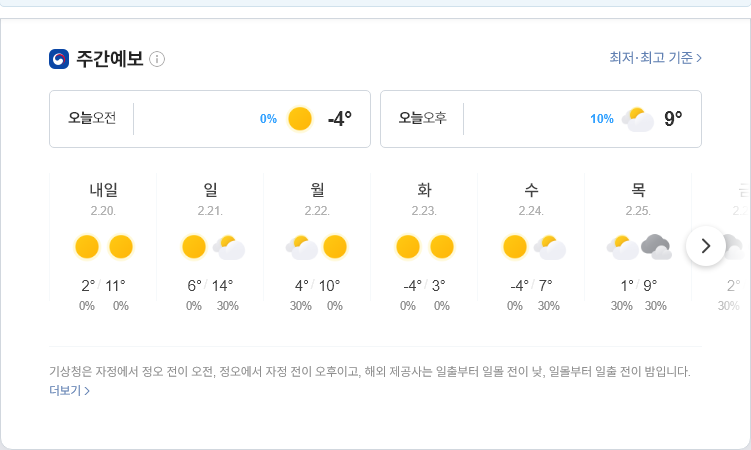
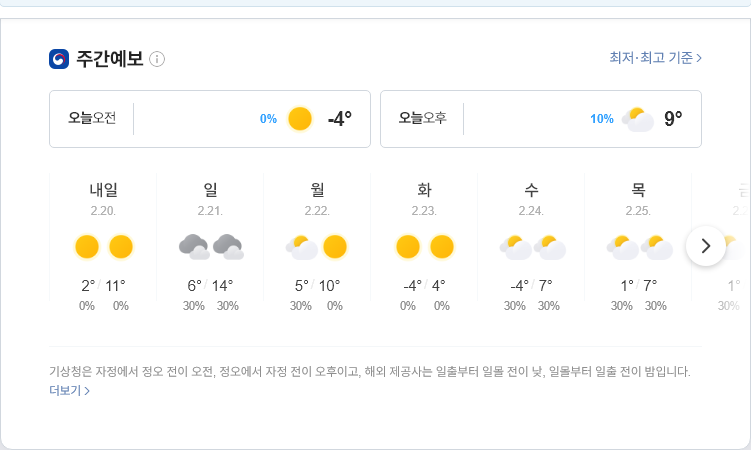
update result

diff --git a/README.md b/README.md
@@ -1,5 +1,5 @@
-##  2021-02-19 05:54:49   금요일 
-##### 날씨   -   어제보다 1° 높아요맑음  
+##  2021-02-19 09:17:08   금요일 
+##### 날씨   -   어제보다 3° 높아요맑음  
 <center><img src="../img/naver_weather_week.png"></center>
 ----
 ----
@@ -13,9 +13,9 @@
 ##### 세계
 <table border="1" bordercolor="blue" align = "center" >
 <tr align = "right" > <td>Item</td><td>Point</td><td>Diff</td><td>Rate</td><td>Buy</td><td>Sell</td><td>...</td>  </tr>
-<tr align = "right" > <td>DOW</td><td>31,541.89</td><td>-71.13</td><td><font size="3" color="blue" >-0.23%</font></td><td><font size="3" color="black">0</font></td><td><font size="3" color="black">0</font></td><td>0</td>  </tr>
-<tr align = "right" > <td>NASDAQ</td><td>13,898.99</td><td>-66.51</td><td><font size="3" color="blue" >-0.48%</font></td><td><font size="3" color="black">0</font></td><td><font size="3" color="black">0</font></td><td>0</td>  </tr>
-<tr align = "right" > <td>S&P</td><td>3,919.9</td><td>-11.43</td><td><font size="3" color="blue" >-0.29%</font></td><td><font size="3" color="black">0</font></td><td><font size="3" color="black">0</font></td><td>0</td>  </tr>
+<tr align = "right" > <td>DOW</td><td>31,493.34</td><td>-119.68</td><td><font size="3" color="blue" >-0.38%</font></td><td><font size="3" color="black">0</font></td><td><font size="3" color="black">0</font></td><td>0</td>  </tr>
+<tr align = "right" > <td>NASDAQ</td><td>13,865.36</td><td>-100.14</td><td><font size="3" color="blue" >-0.72%</font></td><td><font size="3" color="black">0</font></td><td><font size="3" color="black">0</font></td><td>0</td>  </tr>
+<tr align = "right" > <td>S&P</td><td>3,913.97</td><td>-17.36</td><td><font size="3" color="blue" >-0.44%</font></td><td><font size="3" color="black">0</font></td><td><font size="3" color="black">0</font></td><td>0</td>  </tr>
 <tr align = "right" > <td>SHANHAI</td><td>3,675.36</td><td>20.27</td><td><font size="3" color="red" >0.55%</font></td><td><font size="3" color="black">0</font></td><td><font size="3" color="black">0</font></td><td>0</td>  </tr>
 <tr align = "right" > <td>INDIA</td><td>51,324.69</td><td>-379.14</td><td><font size="3" color="blue" >-0.73%</font></td><td><font size="3" color="black">0</font></td><td><font size="3" color="black">0</font></td><td>0</td>  </tr>
 </table>
@@ -23,34 +23,34 @@
 ##### 시장
 <table border="1" bordercolor="blue" align = "center" >
 <tr align = "right" > <td>Item</td><td>Price</td><td>Diff</td><td>Rate</td><td>Buy</td><td>Sell</td><td>...</td>  </tr>
-<tr align = "right" > <td>USD</td><td>1,107.0</td><td>-0.5</td><td><font size="3" color="blue">-0.05%</font></td><td><font size="3" color="orangered">1,110</font></td><td><font size="3" color="black">0</font></td><td>0</td>  </tr>
-<tr align = "right" > <td>WTI</td><td>61.14</td><td>1.09</td><td><font size="3" color="red">1.81%</font></td><td><font size="3" color="black">29.0</font></td><td><font size="3" color="black">0</font></td><td>0</td>  </tr>
-<tr align = "right" > <td>GOLD</td><td>1,771.0</td><td>-26.1</td><td><font size="3" color="blue">-1.45%</font></td><td><font size="3" color="black">0</font></td><td><font size="3" color="black">0</font></td><td>0</td>  </tr>
+<tr align = "right" > <td>USD</td><td>1,107.0</td><td>0.3</td><td><font size="3" color="red">0.03%</font></td><td><font size="3" color="orangered">1,110</font></td><td><font size="3" color="black">0</font></td><td>0</td>  </tr>
+<tr align = "right" > <td>WTI</td><td>60.53</td><td>-0.63</td><td><font size="3" color="blue">-1.03%</font></td><td><font size="3" color="black">29.0</font></td><td><font size="3" color="black">0</font></td><td>0</td>  </tr>
+<tr align = "right" > <td>GOLD</td><td>1,774.0</td><td>2.2</td><td><font size="3" color="red">0.12%</font></td><td><font size="3" color="black">0</font></td><td><font size="3" color="black">0</font></td><td>0</td>  </tr>
 </table>
 ----
 ##### 주가
 <table border="1" bordercolor="blue" align = "center" >
 <tr align = "right" > <td>Item</td><td>Price</td><td>Diff</td><td>Rate</td><td>Purchased</td><td>Sell</td><td>Buy</td>  </tr>
-<tr align = "right" > <td>한국 전력</td><td>23,750</td><td>-50</td><td><font size="3" color="blue">-0.21%</font></td><td>25,720</td><td><font size="3" color="black">27,700</font></td><td><font size="3" color="black">20,700</font></td>  </tr>
-<tr align = "right" > <td>삼성엔지니어.</td><td>12,900</td><td>-200</td><td><font size="3" color="blue">-1.53%</font></td><td>18,935</td><td><font size="3" color="black">20,000</font></td><td><font size="3" color="black">8,000</font></td>  </tr>
-<tr align = "right" > <td>CJ CGV</td><td>26,550</td><td>-200</td><td><font size="3" color="blue">-0.75%</font></td><td>34,895</td><td><font size="3" color="black">36,000</font></td><td><font size="3" color="black">0</font></td>  </tr>
-<tr align = "right" > <td>아모레퍼시픽</td><td>236,000</td><td>9,000</td><td><font size="3" color="red">3.96%</font></td><td>235,350</td><td><font size="3" color="black">240,000</font></td><td><font size="3" color="black">130,000</font></td>  </tr>
-<tr align = "right" > <td>한화</td><td>31,900</td><td>-1,000</td><td><font size="3" color="blue">-3.04%</font></td><td>25,550</td><td><font size="3" color="black">26,250</font></td><td><font size="3" color="black">26,250</font></td>  </tr>
-<tr align = "right" > <td>NAVER</td><td>388,000</td><td>-4,000</td><td><font size="3" color="blue">-1.02%</font></td><td>147,200</td><td><font size="3" color="black">386,000</font></td><td><font size="3" color="black">286,000</font></td>  </tr>
-<tr align = "right" > <td>LG 화학우</td><td>440,000</td><td>-15,000</td><td><font size="3" color="blue">-3.3%</font></td><td>202,490</td><td><font size="3" color="black">384,000</font></td><td><font size="3" color="black">384,000</font></td>  </tr>
-<tr align = "right" > <td>스튜디오드래.</td><td>99,100</td><td>-1,600</td><td><font size="3" color="blue">-1.59%</font></td><td>81,243</td><td><font size="3" color="black">85,200</font></td><td><font size="3" color="black">85,200</font></td>  </tr>
-<tr align = "right" > <td>QV미국IT</td><td>26,690</td><td>-230</td><td><font size="3" color="blue">-0.85%</font></td><td>0</td><td><font size="3" color="black">30,000</font></td><td><font size="3" color="black">20,000</font></td>  </tr>
-<tr align = "right" > <td>삼성 전자우</td><td>74,000</td><td>-800</td><td><font size="3" color="blue">-1.07%</font></td><td>48,250</td><td><font size="3" color="black">56,000</font></td><td><font size="3" color="black">45,000</font></td>  </tr>
-<tr align = "right" > <td>LS</td><td>70,700</td><td>-2,300</td><td><font size="3" color="blue">-3.15%</font></td><td>71,900</td><td><font size="3" color="black">82,000</font></td><td><font size="3" color="black">60,000</font></td>  </tr>
-<tr align = "right" > <td>한화에어로스.</td><td>42,450</td><td>850</td><td><font size="3" color="red">2.04%</font></td><td>25,700</td><td><font size="3" color="black">30,000</font></td><td><font size="3" color="black">24,000</font></td>  </tr>
-<tr align = "right" > <td>카카오</td><td>501,000</td><td>-8,000</td><td><font size="3" color="blue">-1.57%</font></td><td>405,500</td><td><font size="3" color="black">440,000</font></td><td><font size="3" color="black">400,000</font></td>  </tr>
-<tr align = "right" > <td>호텔 신라</td><td>83,600</td><td>1,600</td><td><font size="3" color="red">1.95%</font></td><td>72,800</td><td><font size="3" color="black">100,000</font></td><td><font size="3" color="black">70,000</font></td>  </tr>
-<tr align = "right" > <td>S-Oil</td><td>85,300</td><td>-4,700</td><td><font size="3" color="blue">-5.22%</font></td><td>62,842</td><td><font size="3" color="black">100,000</font></td><td><font size="3" color="black">50,000</font></td>  </tr>
-<tr align = "right" > <td>LG전자</td><td>171,000</td><td>-5,000</td><td><font size="3" color="blue">-2.84%</font></td><td>82,022</td><td><font size="3" color="black">100,000</font></td><td><font size="3" color="black">60,000</font></td>  </tr>
-<tr align = "right" > <td>KT&G</td><td>79,600</td><td>-500</td><td><font size="3" color="blue">-0.62%</font></td><td>80,400</td><td><font size="3" color="black">100,000</font></td><td><font size="3" color="black">70,000</font></td>  </tr>
-<tr align = "right" > <td>지역난방공사</td><td>38,950</td><td>-50</td><td><font size="3" color="blue">-0.13%</font></td><td>43,590</td><td><font size="3" color="black">60,000</font></td><td><font size="3" color="black">30,000</font></td>  </tr>
-<tr align = "right" > <td>KOEDX은행</td><td>6,320</td><td>-125</td><td><font size="3" color="blue">-1.94%</font></td><td>5,178</td><td><font size="3" color="black">6,225</font></td><td><font size="3" color="black">6,225</font></td>  </tr>
-<tr align = "right" > <td>글로벌럭셔리</td><td>15,875</td><td>-205</td><td><font size="3" color="blue">-1.27%</font></td><td>15,260</td><td><font size="3" color="black">20,000</font></td><td><font size="3" color="black">10,000</font></td>  </tr>
-<tr align = "right" > <td>한국금융지주</td><td>91,400</td><td>1,700</td><td><font size="3" color="red">1.9%</font></td><td>0</td><td><font size="3" color="black">82,000</font></td><td><font size="3" color="black">60,000</font></td>  </tr>
+<tr align = "right" > <td>한국 전력</td><td>23,550</td><td>-200</td><td><font size="3" color="blue">-0.84%</font></td><td>25,720</td><td><font size="3" color="black">27,700</font></td><td><font size="3" color="black">20,700</font></td>  </tr>
+<tr align = "right" > <td>삼성엔지니어.</td><td>12,750</td><td>-150</td><td><font size="3" color="blue">-1.16%</font></td><td>18,935</td><td><font size="3" color="black">20,000</font></td><td><font size="3" color="black">8,000</font></td>  </tr>
+<tr align = "right" > <td>CJ CGV</td><td>26,150</td><td>-400</td><td><font size="3" color="blue">-1.51%</font></td><td>34,895</td><td><font size="3" color="black">36,000</font></td><td><font size="3" color="black">0</font></td>  </tr>
+<tr align = "right" > <td>아모레퍼시픽</td><td>233,000</td><td>-3,000</td><td><font size="3" color="blue">-1.27%</font></td><td>235,350</td><td><font size="3" color="black">240,000</font></td><td><font size="3" color="black">130,000</font></td>  </tr>
+<tr align = "right" > <td>한화</td><td>31,900</td><td>0</td><td><font size="3" color="black">0.0%</font></td><td>25,550</td><td><font size="3" color="black">26,250</font></td><td><font size="3" color="black">26,250</font></td>  </tr>
+<tr align = "right" > <td>NAVER</td><td>385,500</td><td>-2,500</td><td><font size="3" color="blue">-0.64%</font></td><td>147,200</td><td><font size="3" color="black">386,000</font></td><td><font size="3" color="black">286,000</font></td>  </tr>
+<tr align = "right" > <td>LG 화학우</td><td>439,000</td><td>-1,000</td><td><font size="3" color="blue">-0.23%</font></td><td>202,490</td><td><font size="3" color="black">384,000</font></td><td><font size="3" color="black">384,000</font></td>  </tr>
+<tr align = "right" > <td>스튜디오드래.</td><td>97,700</td><td>-1,400</td><td><font size="3" color="blue">-1.41%</font></td><td>81,243</td><td><font size="3" color="black">85,200</font></td><td><font size="3" color="black">85,200</font></td>  </tr>
+<tr align = "right" > <td>QV미국IT</td><td>26,645</td><td>-45</td><td><font size="3" color="blue">-0.17%</font></td><td>0</td><td><font size="3" color="black">30,000</font></td><td><font size="3" color="black">20,000</font></td>  </tr>
+<tr align = "right" > <td>삼성 전자우</td><td>73,900</td><td>-100</td><td><font size="3" color="blue">-0.14%</font></td><td>48,250</td><td><font size="3" color="black">56,000</font></td><td><font size="3" color="black">45,000</font></td>  </tr>
+<tr align = "right" > <td>LS</td><td>70,600</td><td>-100</td><td><font size="3" color="blue">-0.14%</font></td><td>71,900</td><td><font size="3" color="black">82,000</font></td><td><font size="3" color="black">60,000</font></td>  </tr>
+<tr align = "right" > <td>한화에어로스.</td><td>43,450</td><td>1,000</td><td><font size="3" color="red">2.36%</font></td><td>25,700</td><td><font size="3" color="black">30,000</font></td><td><font size="3" color="black">24,000</font></td>  </tr>
+<tr align = "right" > <td>카카오</td><td>493,500</td><td>-7,500</td><td><font size="3" color="blue">-1.5%</font></td><td>405,500</td><td><font size="3" color="black">440,000</font></td><td><font size="3" color="black">400,000</font></td>  </tr>
+<tr align = "right" > <td>호텔 신라</td><td>82,800</td><td>-800</td><td><font size="3" color="blue">-0.96%</font></td><td>72,800</td><td><font size="3" color="black">100,000</font></td><td><font size="3" color="black">70,000</font></td>  </tr>
+<tr align = "right" > <td>S-Oil</td><td>85,000</td><td>-300</td><td><font size="3" color="blue">-0.35%</font></td><td>62,842</td><td><font size="3" color="black">100,000</font></td><td><font size="3" color="black">50,000</font></td>  </tr>
+<tr align = "right" > <td>LG전자</td><td>168,500</td><td>-2,500</td><td><font size="3" color="blue">-1.46%</font></td><td>82,022</td><td><font size="3" color="black">100,000</font></td><td><font size="3" color="black">60,000</font></td>  </tr>
+<tr align = "right" > <td>KT&G</td><td>79,600</td><td>0</td><td><font size="3" color="black">0.0%</font></td><td>80,400</td><td><font size="3" color="black">100,000</font></td><td><font size="3" color="black">70,000</font></td>  </tr>
+<tr align = "right" > <td>지역난방공사</td><td>38,850</td><td>-100</td><td><font size="3" color="blue">-0.26%</font></td><td>43,590</td><td><font size="3" color="black">60,000</font></td><td><font size="3" color="black">30,000</font></td>  </tr>
+<tr align = "right" > <td>KOEDX은행</td><td>6,320</td><td>0</td><td><font size="3" color="black">0.0%</font></td><td>5,178</td><td><font size="3" color="black">6,225</font></td><td><font size="3" color="black">6,225</font></td>  </tr>
+<tr align = "right" > <td>글로벌럭셔리</td><td>15,835</td><td>-40</td><td><font size="3" color="blue">-0.25%</font></td><td>15,260</td><td><font size="3" color="black">20,000</font></td><td><font size="3" color="black">10,000</font></td>  </tr>
+<tr align = "right" > <td>한국금융지주</td><td>92,800</td><td>1,400</td><td><font size="3" color="red">1.53%</font></td><td>0</td><td><font size="3" color="black">82,000</font></td><td><font size="3" color="black">60,000</font></td>  </tr>
 </table>
 ----
